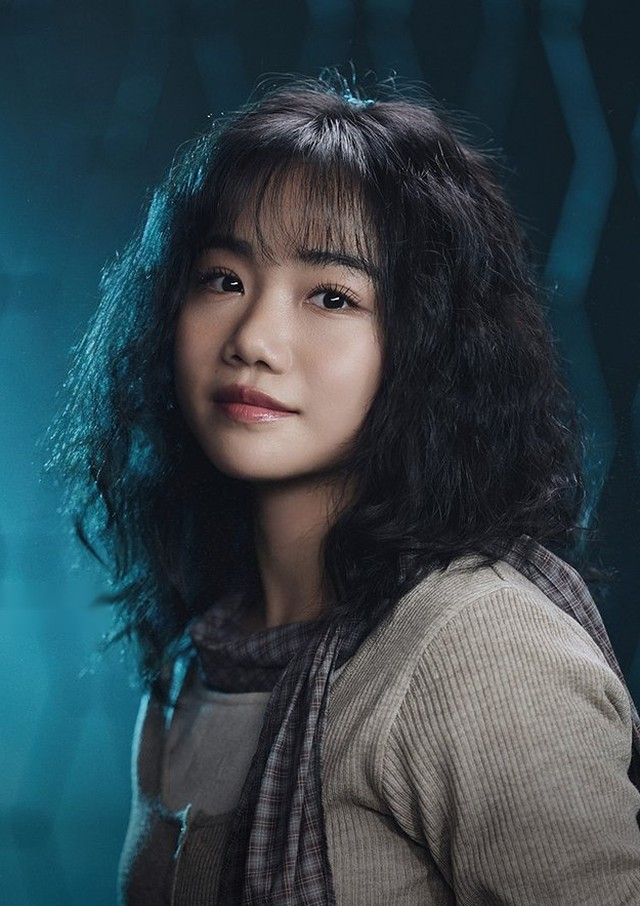
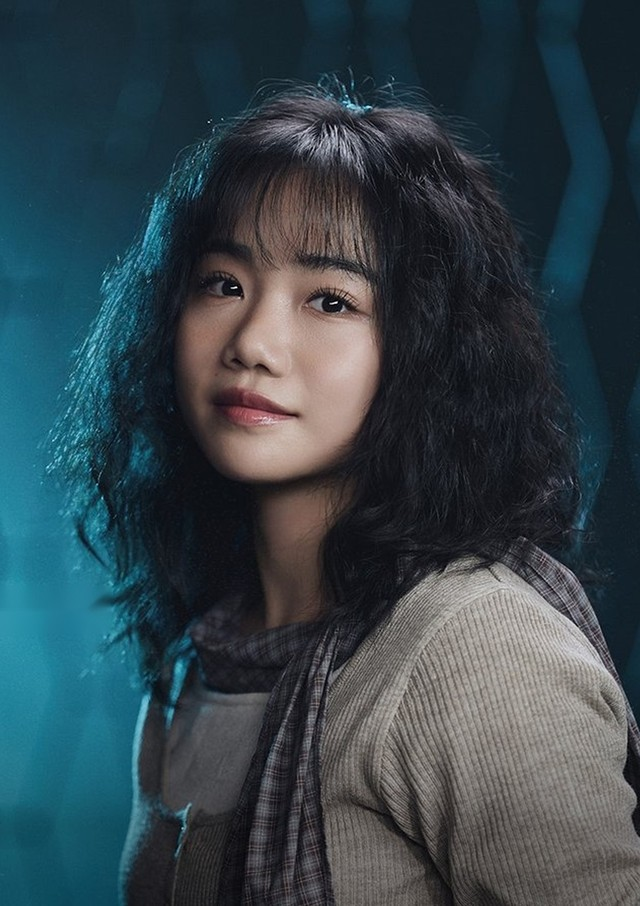
아이콘을 INTRA MUROS 영문 로고로 교체, 캐스트 사진을 공식 타일 구도에 정밀 정합

diff --git a/index.html b/index.html
@@ -5,10 +5,12 @@
 <meta name="viewport" content="width=device-width, initial-scale=1">
 <title>연극 &lt;인트라 무로스&gt; 정산판</title>
 <meta name="description" content="연극 인트라 무로스 한국 초연 관람 정산판 — 캐스팅 스케줄, 좌석 기록, 정산표">
-<link rel="icon" type="image/png" sizes="32x32" href="images/icon-32.png">
-<link rel="icon" type="image/png" sizes="192x192" href="images/icon-192.png">
-<link rel="apple-touch-icon" sizes="180x180" href="images/icon-180.png">
-<link rel="manifest" href="manifest.webmanifest">
+<link rel="icon" type="image/svg+xml" href="images/icon.svg?v=1793846269">
+<link rel="icon" type="image/png" sizes="32x32" href="images/icon-32.png?v=1793846269">
+<link rel="icon" type="image/png" sizes="48x48" href="images/icon-48.png?v=1793846269">
+<link rel="icon" type="image/png" sizes="192x192" href="images/icon-192.png?v=1793846269">
+<link rel="apple-touch-icon" sizes="180x180" href="images/icon-180.png?v=1793846269">
+<link rel="manifest" href="manifest.webmanifest?v=1793846269">
 <meta name="apple-mobile-web-app-title" content="인무 정산판">
 <meta name="application-name" content="인무 정산판">
 <meta name="theme-color" content="#13325e">
@@ -16,7 +18,7 @@
 <link rel="preconnect" href="https://fonts.gstatic.com" crossorigin>
 <link href="https://fonts.googleapis.com/css2?family=Pirata+One&family=Cormorant+Garamond:ital,wght@1,500&display=swap" rel="stylesheet">
 <link rel="stylesheet" href="https://cdn.jsdelivr.net/gh/orioncactus/pretendard@v1.3.9/dist/web/static/pretendard-dynamic-subset.min.css">
-<link rel="stylesheet" href="css/style.css?v=1793845453">
+<link rel="stylesheet" href="css/style.css?v=1793846269">
 </head>
 <body>
 
@@ -107,7 +109,7 @@
 </section>
 
 <script src="https://cdnjs.cloudflare.com/ajax/libs/html2canvas/1.4.1/html2canvas.min.js"></script>
-<script src="js/data.js?v=1793845453"></script>
-<script src="js/app.js?v=1793845453"></script>
+<script src="js/data.js?v=1793846269"></script>
+<script src="js/app.js?v=1793846269"></script>
 </body>
 </html>

diff --git a/README.md b/README.md
@@ -23,9 +23,16 @@ site/
     ├── title-light.svg        밝은색 버전 (정산판용)
     ├── paper.png              스케줄표 종이 질감 타일
     ├── bg-settlement.jpg      정산판 배경 (1080 × 1500, 남색 + 빛줄기)
-    ├── icon-32/180/192/512.png 파비콘·홈 화면 아이콘 (포스터 의자 실루엣)
+    ├── icon.svg / icon-32·48.png      브라우저 탭 파비콘 (INTRA MUROS 영문 로고를 두 줄로 쌓은 것)
+    ├── icon-180.png                   아이폰 홈 화면 아이콘 (apple-touch-icon)
+    ├── icon-192·512.png               안드로이드 홈 화면 아이콘
+    ├── icon-maskable-192·512.png      갤럭시 등 원형·스퀴클로 잘리는 아이콘용 (로고를 안전 영역 안에 작게 배치)
     └── cast/                  배우 사진 (jpg, 640 × 906)
 ```
+
+## 아이콘
+
+브라우저 탭 아이콘과 홈 화면 추가 아이콘은 모두 남색(`#0e2238`) 바탕에 INTRA MUROS 영문 로고를 INTRA / MUROS 두 줄로 쌓은 모양입니다. 홈 화면 이름은 `index.html`의 `apple-mobile-web-app-title`과 `manifest.webmanifest`의 `short_name`("인무 정산판")에서 바꿉니다. 아이콘을 바꾼 뒤에는 이미 홈 화면에 추가돼 있던 아이콘은 지우고 다시 추가해야 새 아이콘이 보입니다(아이폰·갤럭시 모두 자동으로 바뀌지 않음).
 
 ## 이미지 파일 규격
 
@@ -41,9 +48,9 @@ site/
 사진을 교체하려면 같은 이름의 jpg로 덮어쓰면 됩니다. 비율이 640:906이 아니면 가운데 기준으로 잘려서 표시됩니다.
 
 현재 사진은 곤 투모로우 제작 가이드(`../../Gone Tomorrow/뮤지컬-정산판-사이트-제작-가이드.md` §5)와 같은 방법으로 만들었습니다.
-- 크롭: NOL 예매 페이지의 캐스트 소개 타일(CHARACTER & CAST)을 공식 프로필 원본(900 × 1200 등)에 템플릿 매칭해 공식과 똑같은 구도로 잘라냄 (매칭 점수 0.94~0.99)
+- 크롭: NOL 예매 페이지 PDF에 들어 있는 원본 해상도의 캐스트 소개 타일(사진 영역 224 × 317px, 비율 0.7066)을 공식 프로필 원본(900 × 1200 등)에 부화소 단위로 템플릿 매칭해 공식과 똑같은 구도로 잘라냄. 잘라낸 결과를 다시 공식 타일과 정합(ECC)해 15장 모두 배율 차이 0.25% 이내, 위치 차이 0.5px 이내(640 × 906 기준)인 것을 확인함. 공식 타일이 원본 사진의 위쪽 끝보다 조금 더 위까지 보여 주는 3장(유낙원 17px, 이정화 7px, 최석진 4px — 원본 기준)은 그만큼 배경을 위로 이어 붙임
 - 글자 제거: 사진 왼쪽의 "역할 🪑 이름" 캡션(의자 아이콘 포함)은 밝기 마스크 + OpenCV inpaint(TELEA)로 지움. 아래쪽 로고 띠는 크롭 범위 밖
-- 규격: 공식 타일 비율(413 × 585 ≈ 0.706)에 맞춰 전부 640 × 906 jpg(품질 90)로 저장
+- 규격: 공식 타일 비율(224 × 317 = 0.7066)에 맞춰 전부 640 × 906 jpg(품질 90)로 저장
 
 ## 일정 추가
 
